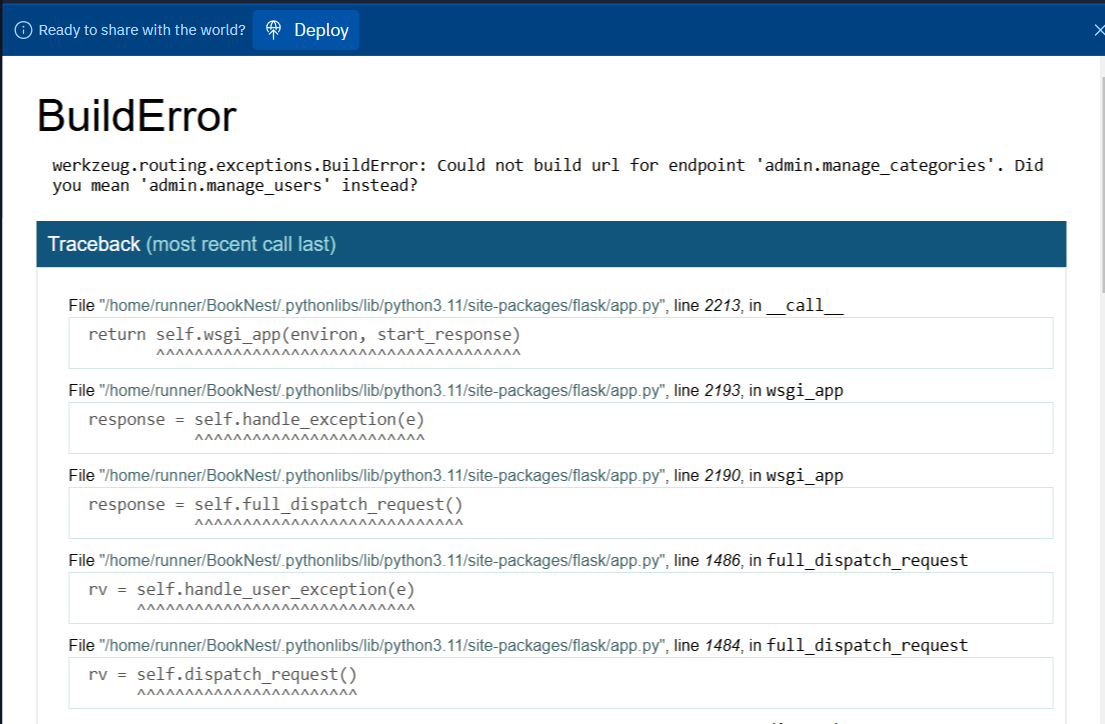
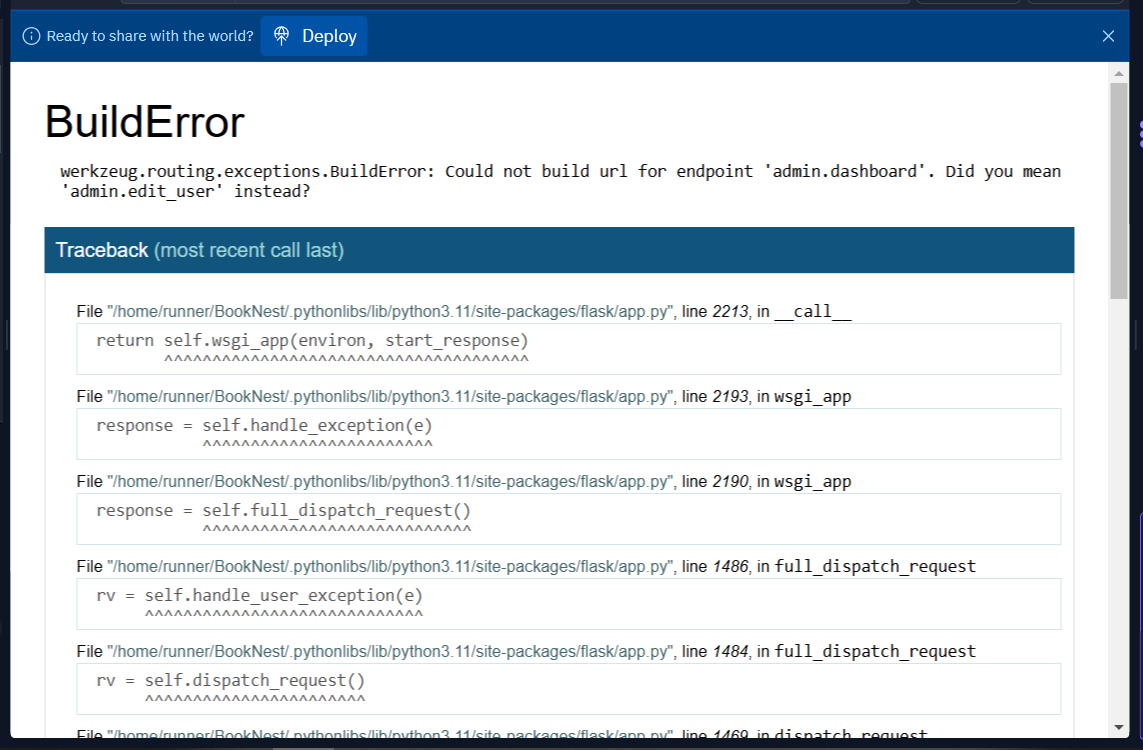
Agent query: Can you access the user management page and verify if you can create users with different roles (admin, manager, editor, customer) and if the role filtering works?

Changed region(s): [[0.0, 0.0, 1.0, 1.0]]

diff --git a/views/admin.py b/views/admin.py
@@ -4,6 +4,7 @@ from models import User, Book, Order, Category, Review, UserActivity
 from forms import UserForm, CategoryForm
 from app import db
 from utils.activity_logger import log_user_activity
+from utils.email import send_order_status_email
 from werkzeug.security import generate_password_hash
 from functools import wraps
 
@@ -19,6 +20,17 @@ def permission_required(permission):
             return f(*args, **kwargs)
         return decorated_function
     return decorator
+
+@admin.route('/dashboard')
+@permission_required('manage_books')
+def dashboard():
+    books = Book.query.all()
+    orders = Order.query.order_by(Order.created_at.desc()).limit(10).all()
+    categories = Category.query.all()
+    return render_template('admin/dashboard.html', 
+                         books=books,
+                         orders=orders,
+                         categories=categories)
 
 @admin.route('/manage_users')
 @permission_required('manage_users')
@@ -146,6 +158,49 @@ def user_activity(user_id):
                           .limit(50).all()
     return render_template('admin/user_activities.html', user=user, activities=activities)
 
+@admin.route('/manage_orders')
+@permission_required('manage_orders')
+def manage_orders():
+    # Get filter parameters
+    status_filter = request.args.get('status', '')
+    search_query = request.args.get('search', '')
+    
+    # Build the query
+    query = Order.query
+    if status_filter:
+        query = query.filter_by(status=status_filter)
+    if search_query:
+        query = query.join(User).filter(
+            (Order.id.ilike(f'%{search_query}%')) |
+            (User.email.ilike(f'%{search_query}%'))
+        )
+    
+    orders = query.order_by(Order.created_at.desc()).all()
+    return render_template('admin/manage_orders.html', orders=orders)
+
+@admin.route('/order_details/<int:order_id>')
+@permission_required('manage_orders')
+def order_details(order_id):
+    order = Order.query.get_or_404(order_id)
+    return render_template('admin/order_details.html', order=order)
+
+@admin.route('/update_order_status/<int:order_id>', methods=['POST'])
+@permission_required('manage_orders')
+def update_order_status(order_id):
+    try:
+        data = request.get_json()
+        order = Order.query.get_or_404(order_id)
+        order.status = data['status']
+        db.session.commit()
+        
+        # Send email notification
+        send_order_status_email(order.user.email, order.id, order.status, order.items)
+        
+        return jsonify({'success': True})
+    except Exception as e:
+        db.session.rollback()
+        return jsonify({'success': False, 'error': str(e)})
+
 @admin.route('/manage_categories')
 @permission_required('manage_categories')
 def manage_categories():
@@ -171,5 +226,3 @@ def add_category():
             db.session.rollback()
             flash('Error adding category.', 'danger')
     return redirect(url_for('admin.manage_categories'))
-
-# ... rest of the admin routes ...
